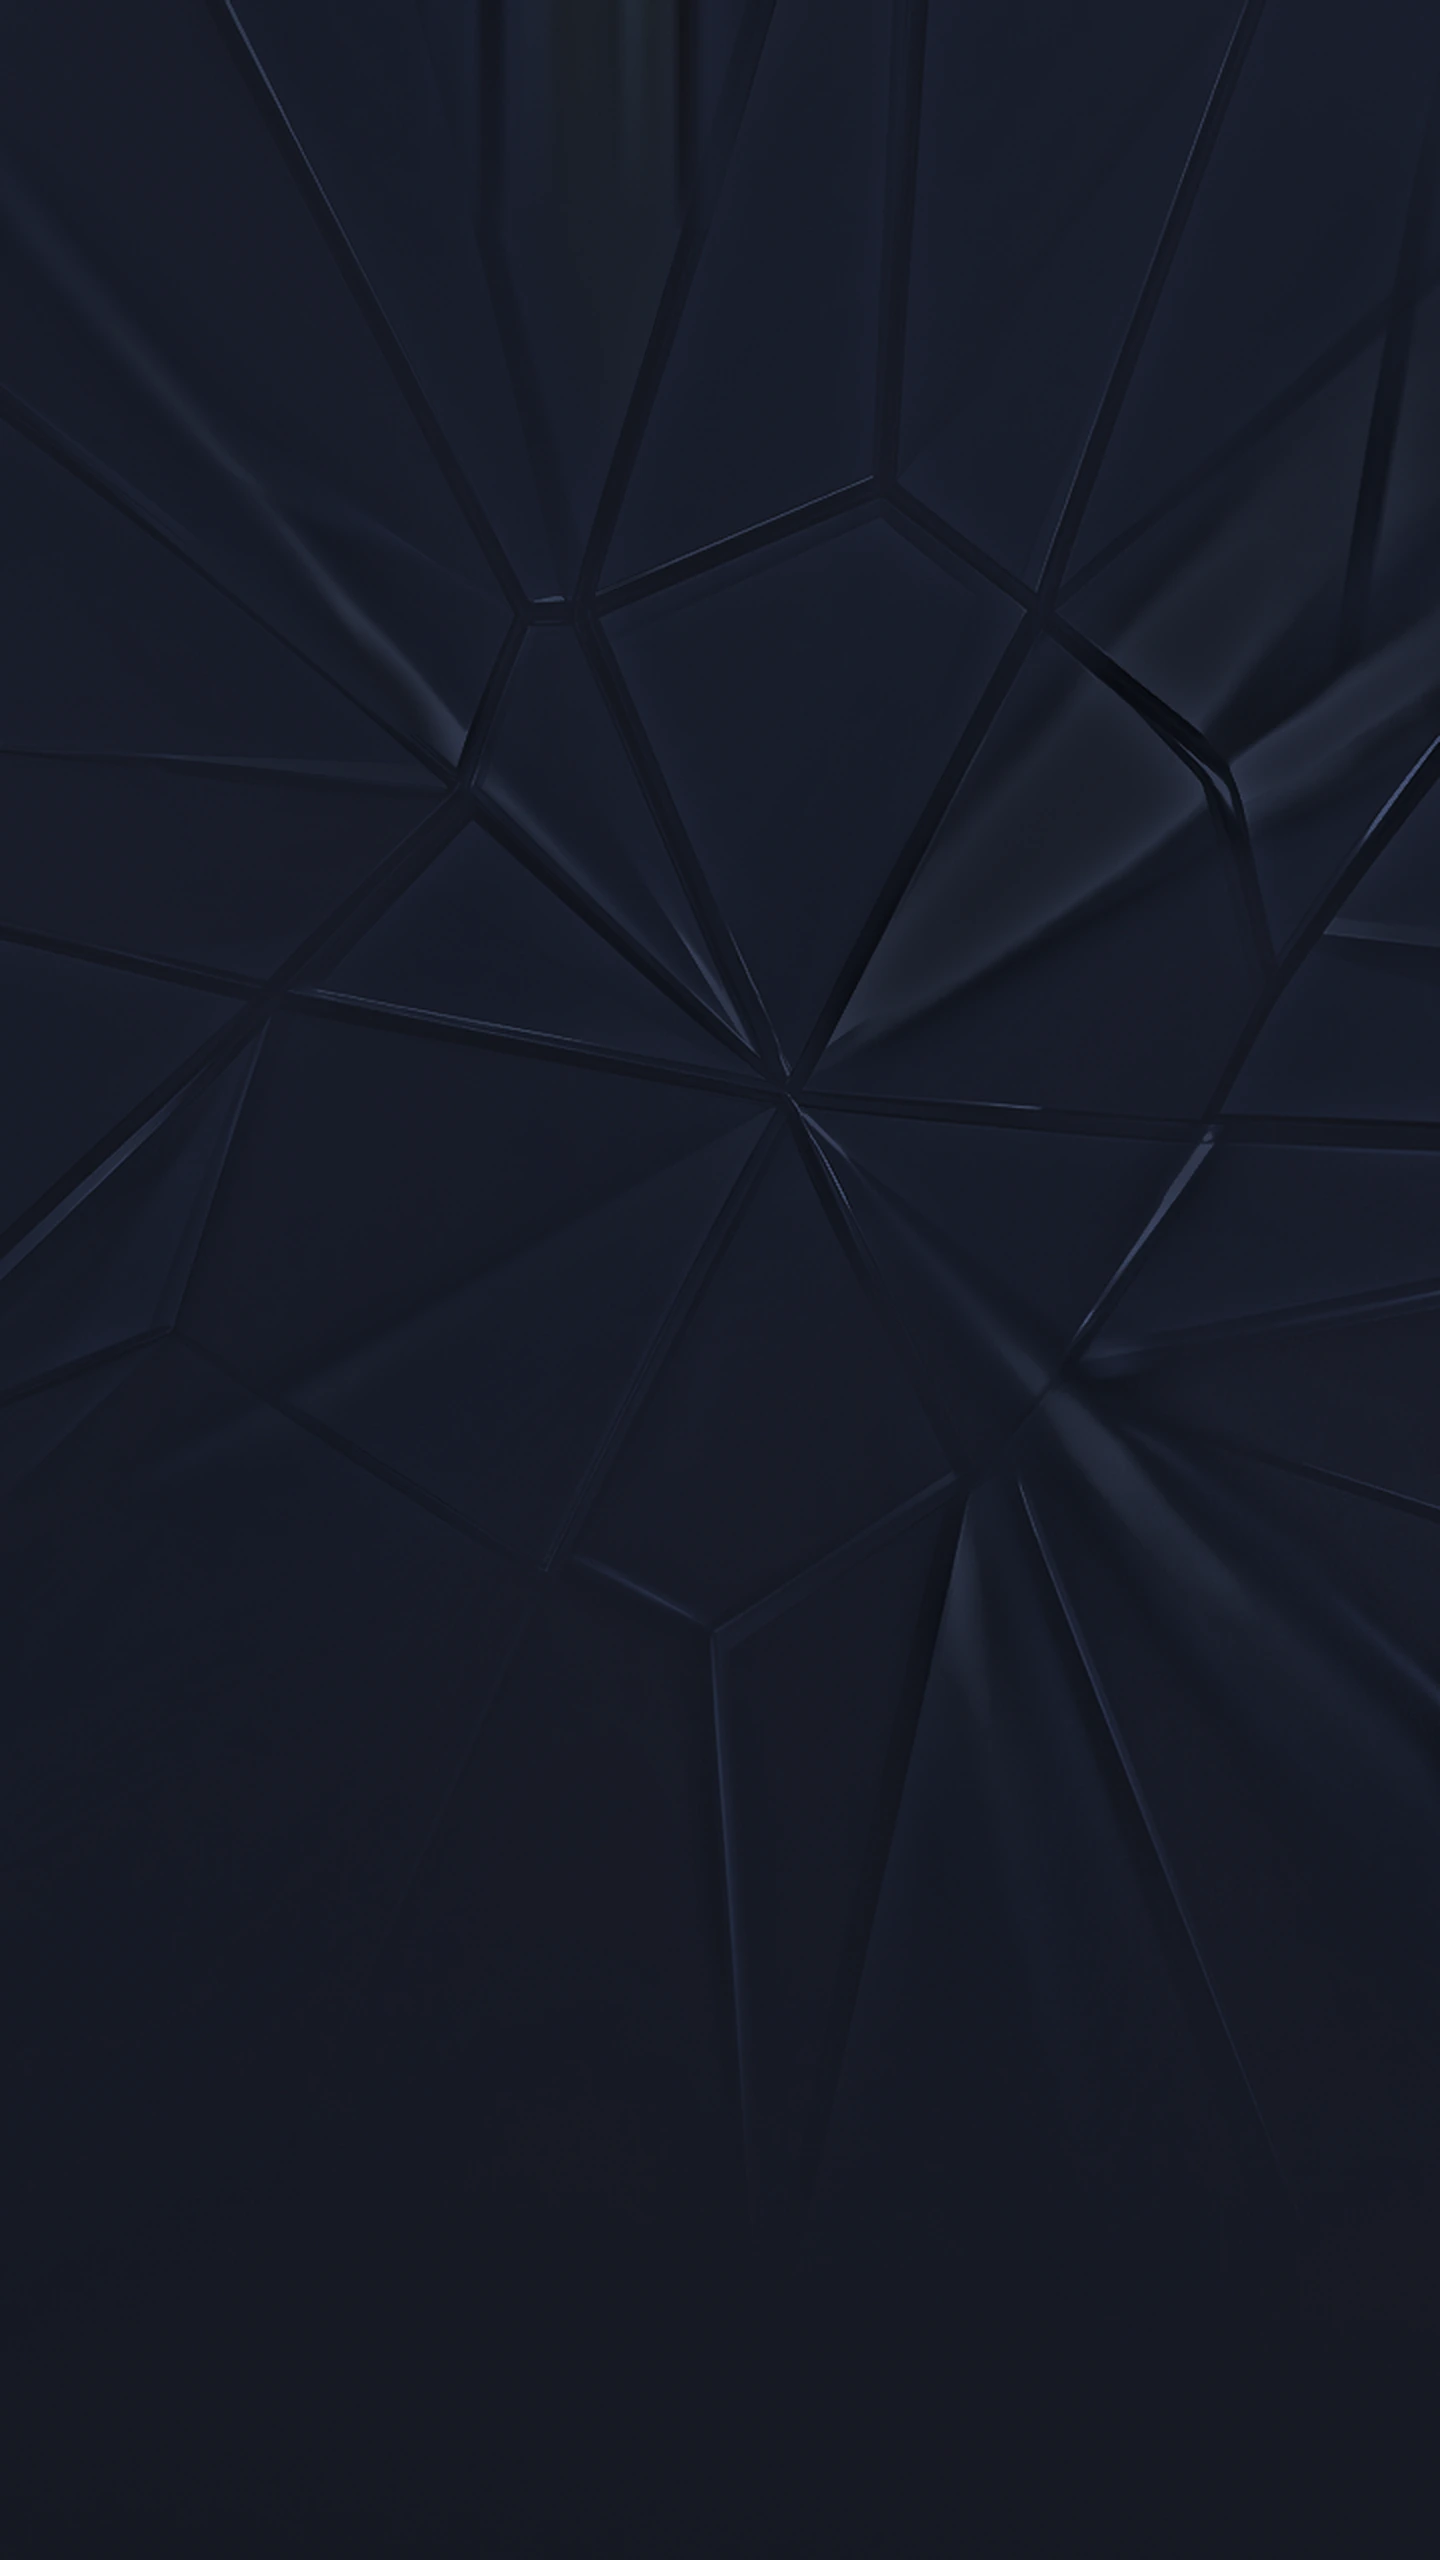
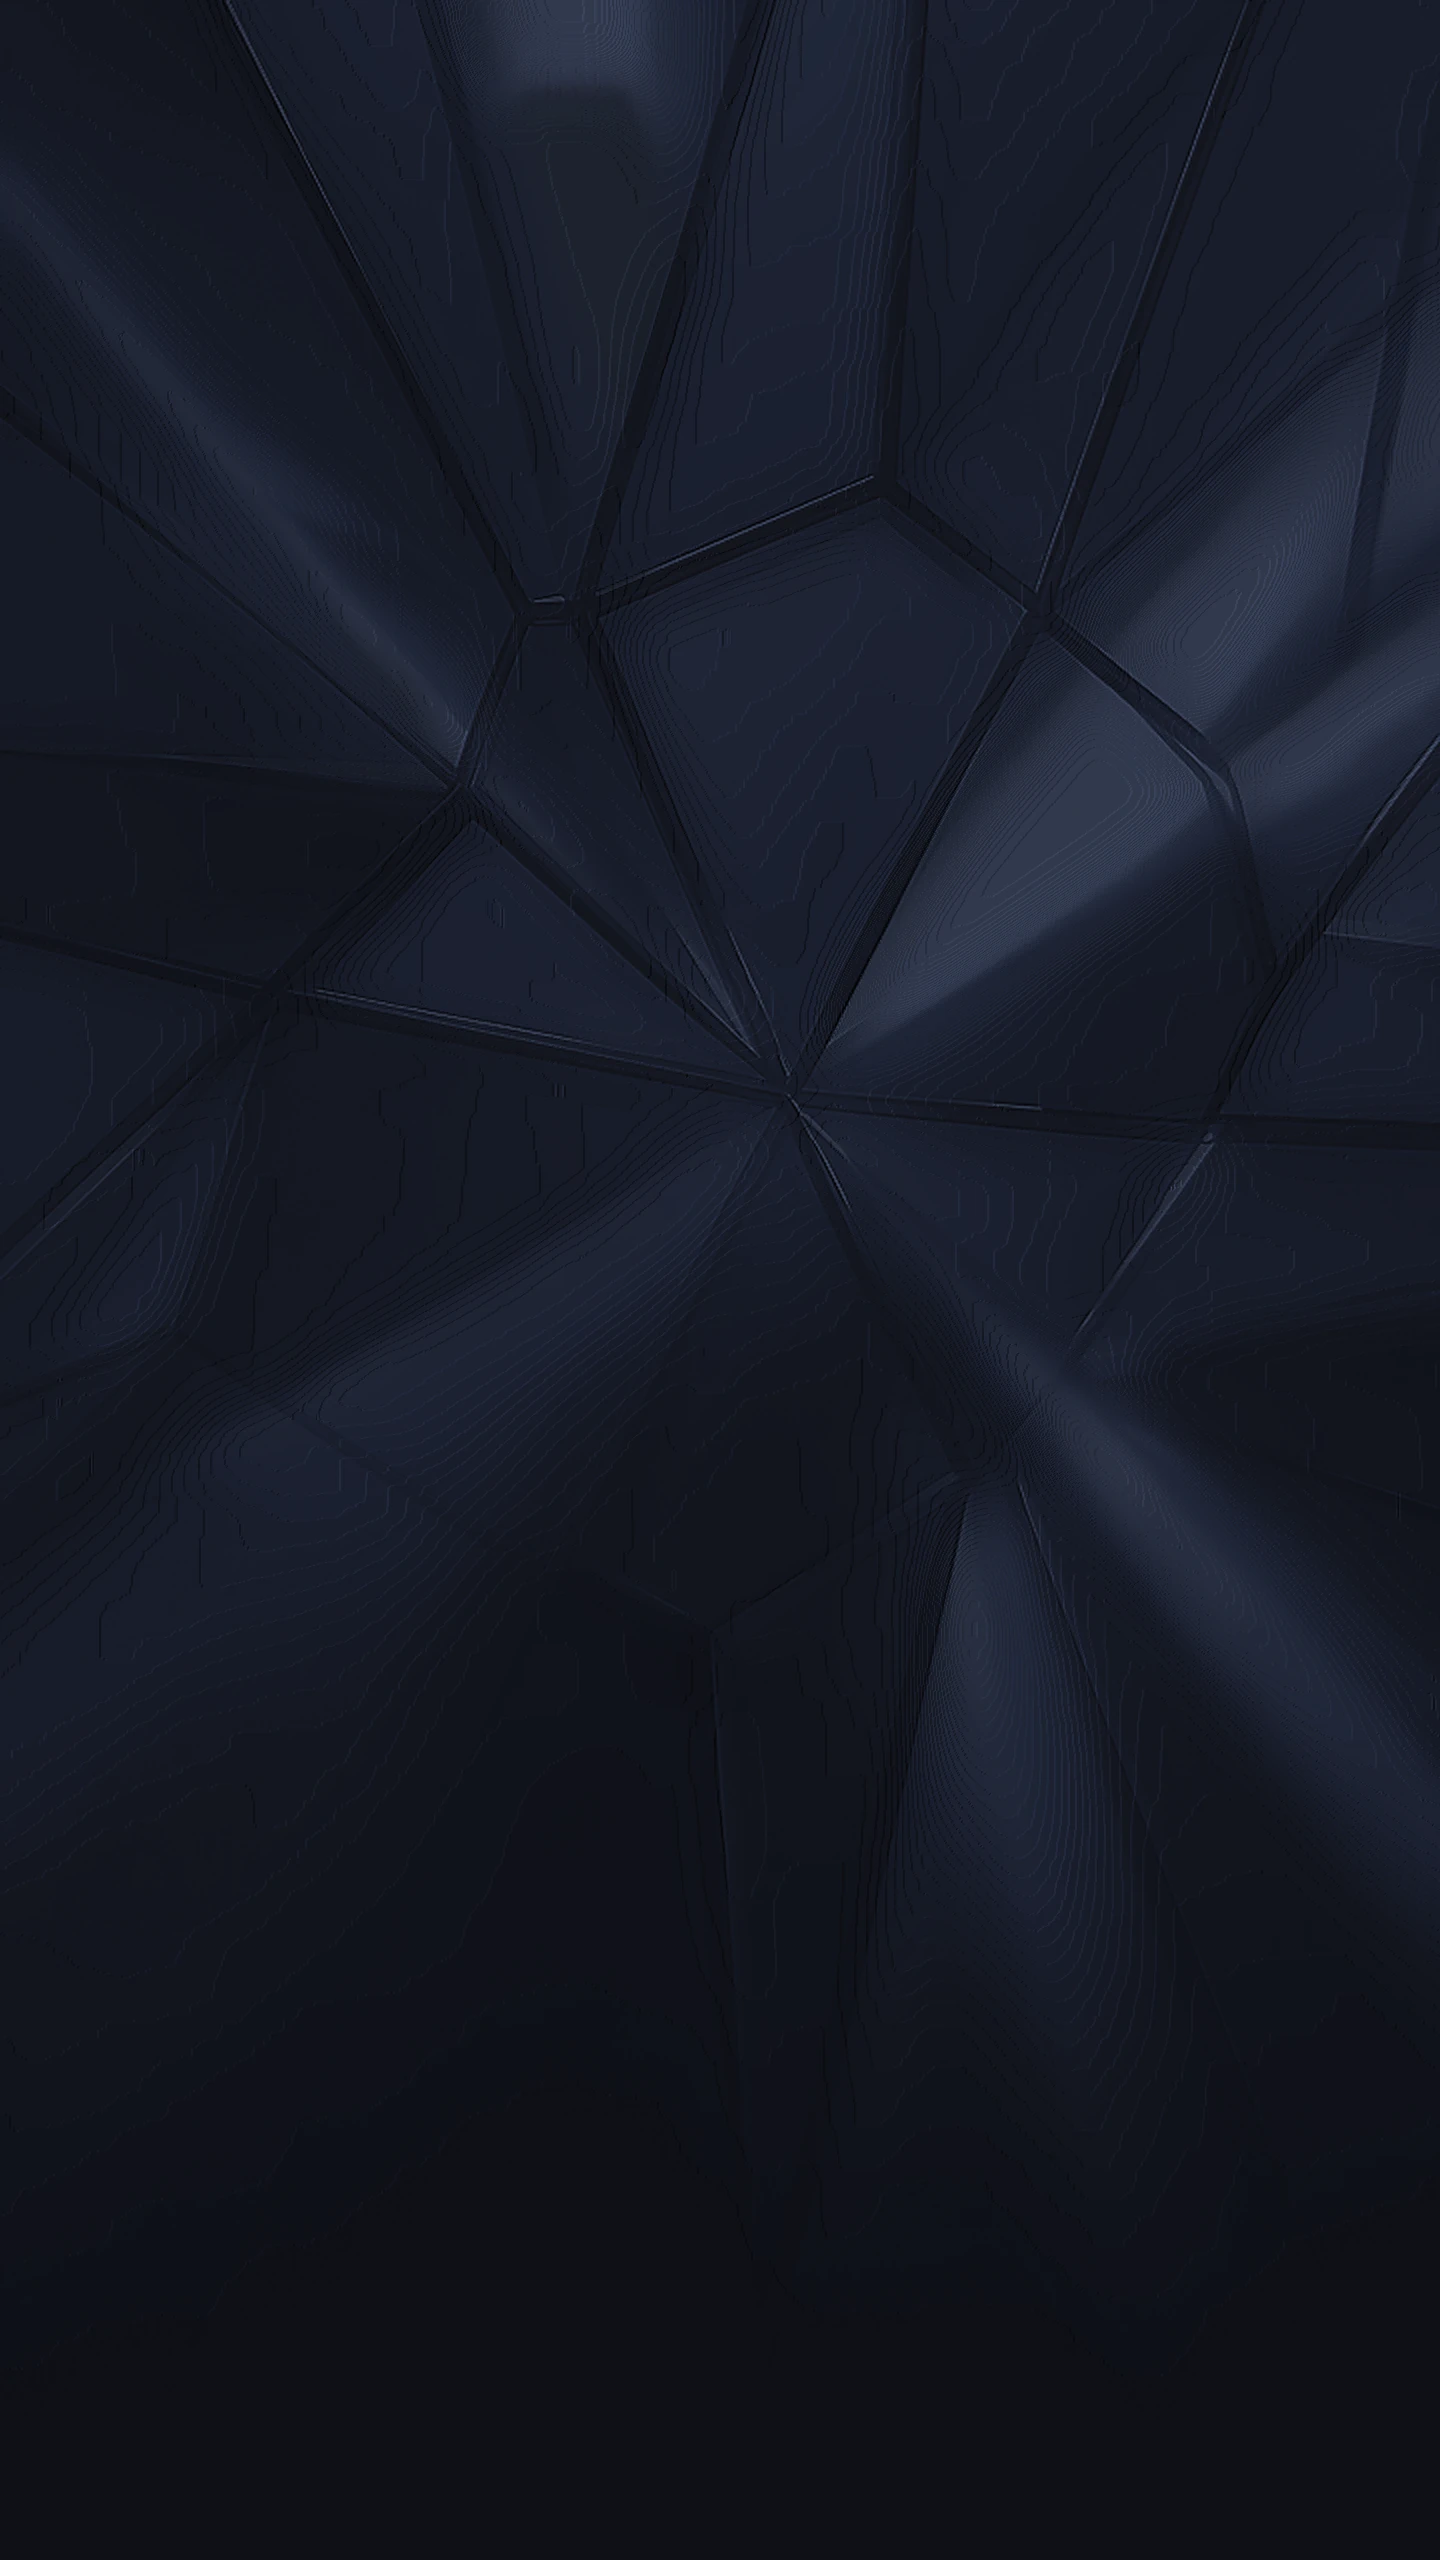
Revert the wallet crystal to the version that was working

diff --git a/src/components/WalletSky.jsx b/src/components/WalletSky.jsx
@@ -8,12 +8,12 @@ import { assetUrl } from '../lib/format.js'
  * full circle the highlight can travel anywhere. App.css does the weighting.
  */
 const LIGHT_FRAMES = [
-  'wallet-crystal-1.webp?v=facet5',
-  'wallet-crystal-2.webp?v=facet5',
-  'wallet-crystal-3.webp?v=facet5',
-  'wallet-crystal-4.webp?v=facet5',
-  'wallet-crystal-5.webp?v=facet5',
-  'wallet-crystal-6.webp?v=facet5',
+  'wallet-crystal-1.webp',
+  'wallet-crystal-2.webp',
+  'wallet-crystal-3.webp',
+  'wallet-crystal-4.webp',
+  'wallet-crystal-5.webp',
+  'wallet-crystal-6.webp',
 ]
 
 export function WalletSky() {

diff --git a/src/App.css b/src/App.css
@@ -1202,7 +1202,7 @@
 .wallet-opal-4,
 .wallet-opal-5,
 .wallet-opal-6 {
-  --gain: 2.2;
+  --gain: 1.7;
   will-change: opacity;
   opacity: clamp(
     0,
